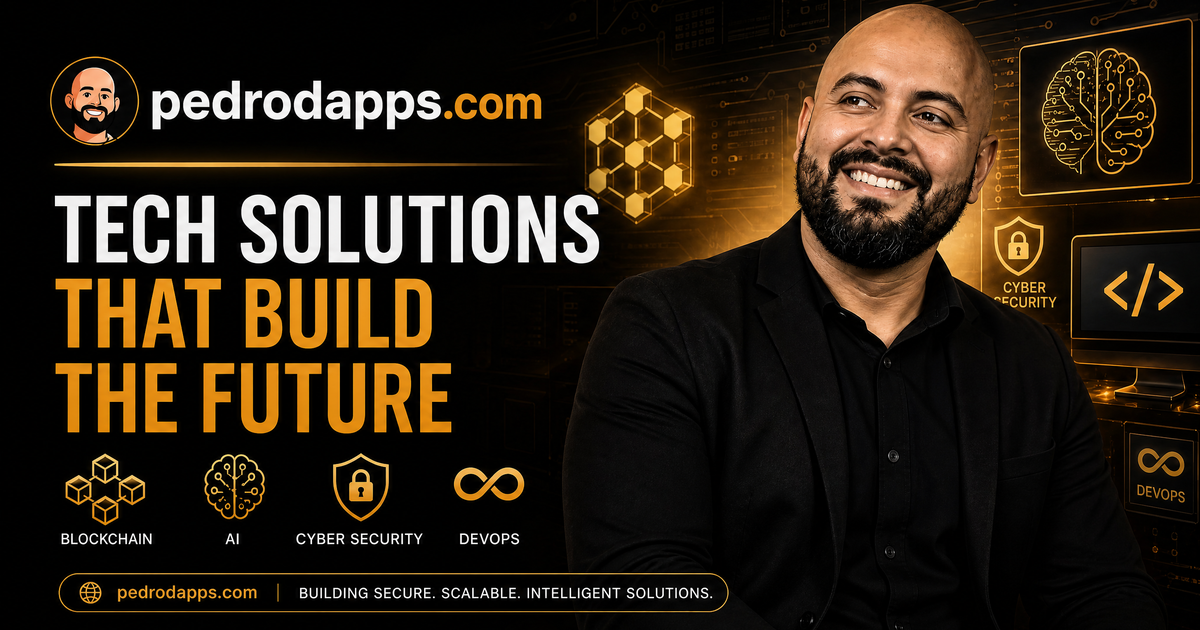
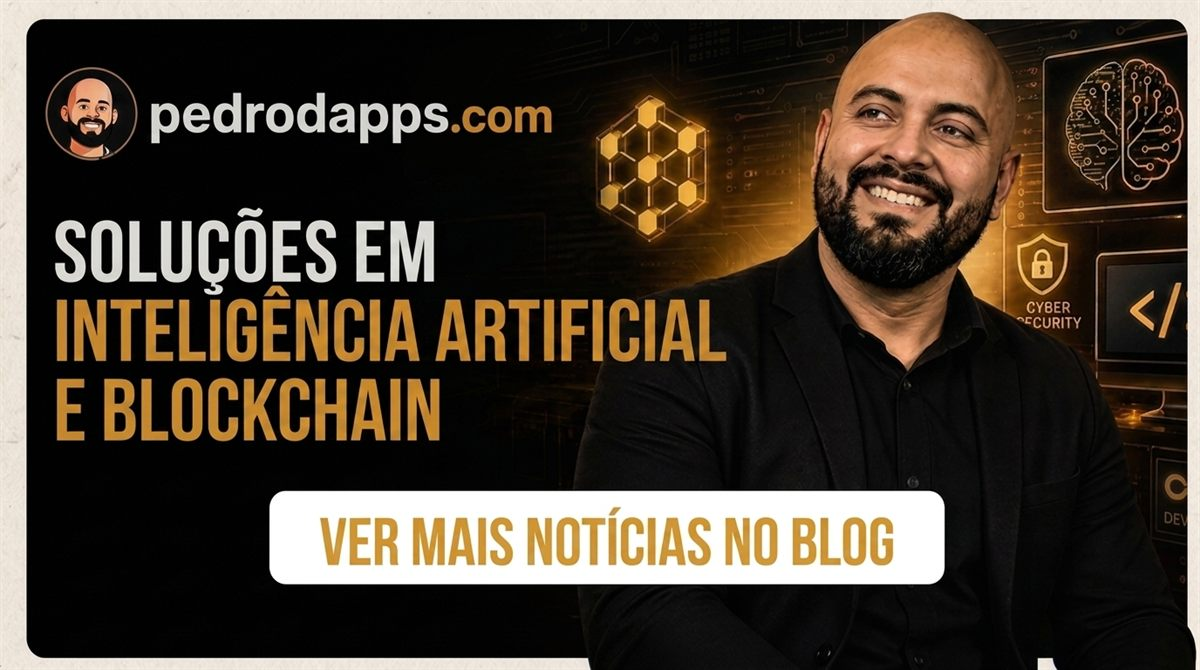
feat: OG fallback com nova thumbnail + remover posts antigos
- Nova thumbnail OG (1200x670, 116KB) como fallback padrao ao compartilhar
- Post usa a propria capa como og:image (cover) e cai no fallback se nao tiver
- Removidos: bem-vindo, IA e Blockchain, Drex
- Corrigido link 'Leia tambem' no post do BC

diff --git a/src/content/blog/bc-cripto-frear-inovacao.md b/src/content/blog/bc-cripto-frear-inovacao.md
@@ -76,8 +76,6 @@ Paulino apontou solidez regulatória, controles e mecanismos de prevenção à l
 
 A fala do BC confirma uma tendência que já vinha se desenhando: cripto deixou de ser tratada como exceção e passou a ser enquadrada como parte do sistema financeiro — com as mesmas cobranças de governança, proteção e prevenção que valem para os demais agentes. Para quem acompanha o tema, o sinal é claro: a regulação vai continuar mudando, e as stablecoins são o próximo capítulo.
 
-Leia também: [O que é o Drex e por que ele importa](/posts/o-que-e-o-drex-e-por-que-ele-importa/)
-
 ---
 
 > Fonte: [Cointelegraph Brasil](https://cointelegraph.com.br/news/brazilian-central-bank-blockchain)
